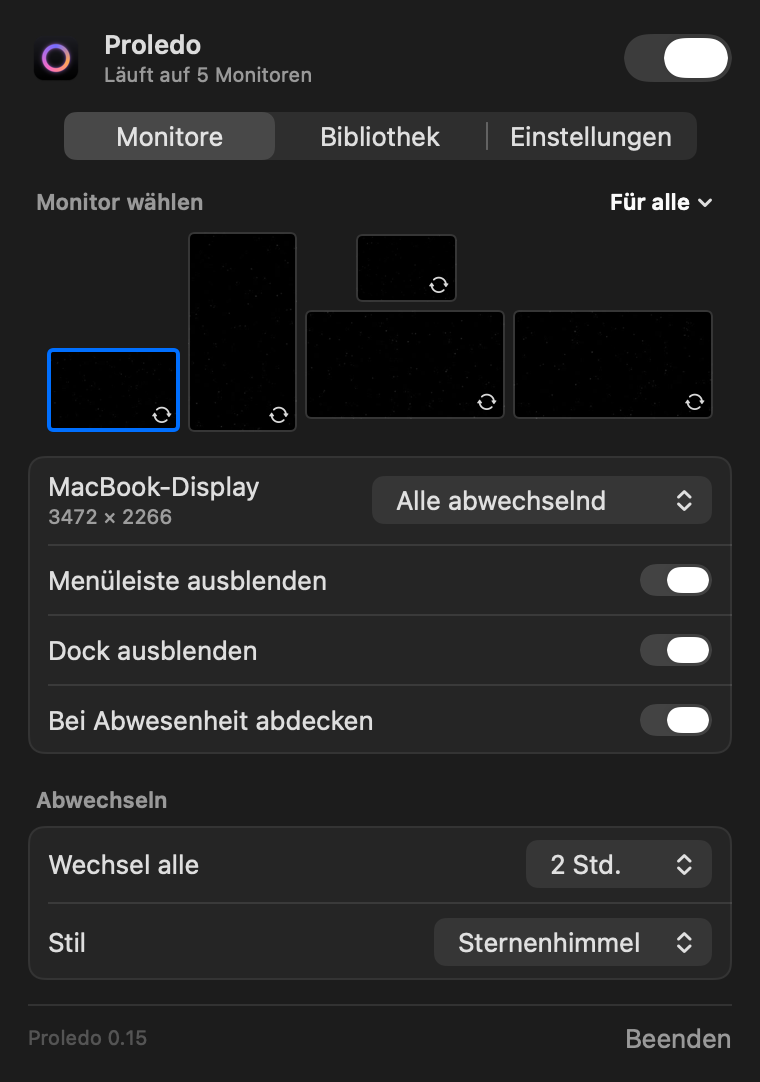
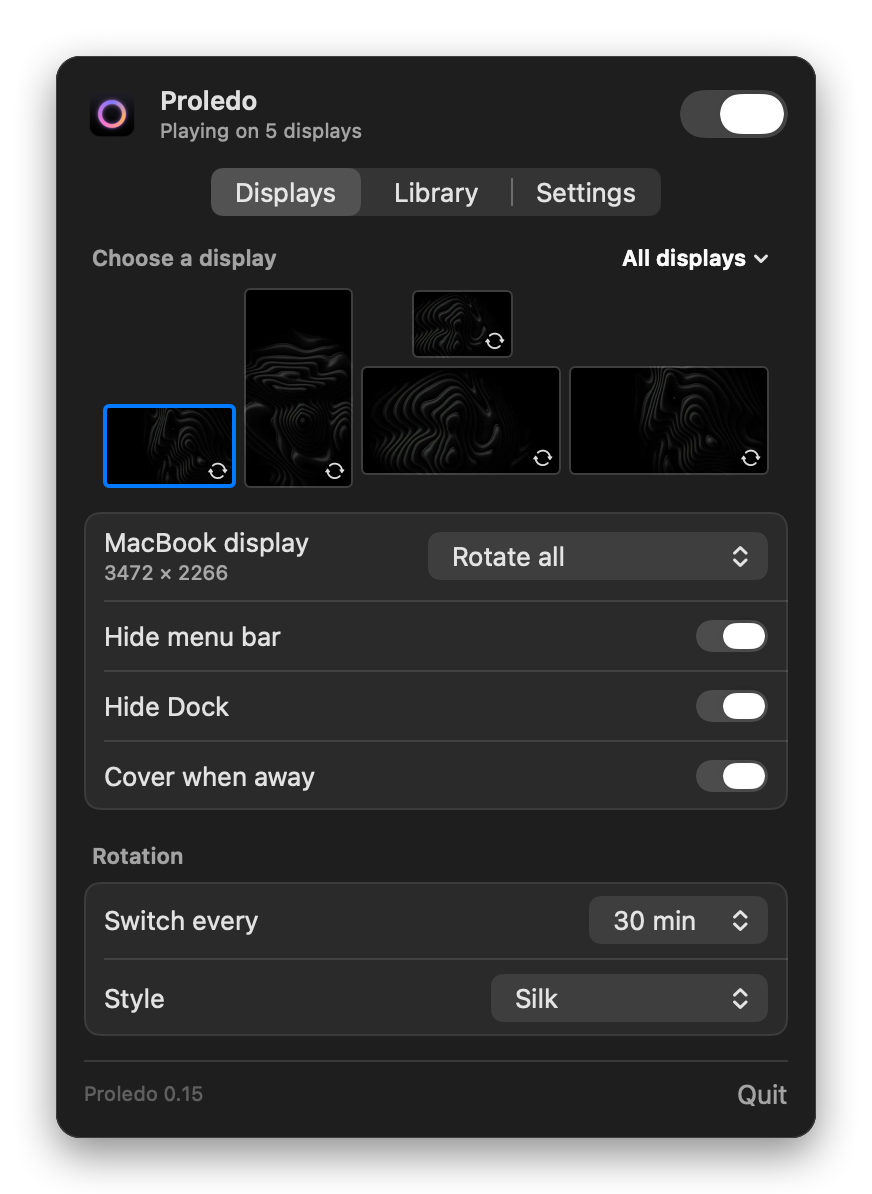
Update README and screenshots

diff --git a/README.md b/README.md
@@ -12,24 +12,26 @@
 <p align="center">
   <picture>
     <source media="(prefers-color-scheme: dark)" srcset="docs/menu-dark-0.15.png">
-    <img src="docs/menu-light-0.15.png" width="400" alt="The Proledo menu with a map of five displays and their settings">
+    <img src="docs/menu-light-0.15.png" width="400" alt="The Proledo menu with a map of five displays, their settings and rotation">
   </picture>
-  <img src="docs/generator-0.8.png" width="400" alt="Creating a contour line wallpaper in Proledo">
+  <img src="docs/generator-0.15.png" width="400" alt="Creating a northern lights wallpaper in Proledo">
 </p>
 
 Made for the MacBook Pro with PROLED XDR display, works on any Mac and any external monitor. Proledo lives in your menu bar. Paste a YouTube link, the video gets saved locally and plays as your desktop background. Every monitor can have its own video, or none at all.
+
+The menu has three tabs: **Displays** for what plays where, **Library** for adding and managing videos, and **Settings** for everything else.
 
 ## What it does
 
 - Downloads YouTube videos without sound, in the quality you pick
 - Grabs just a slice of long videos, like 10 minutes out of a 12-hour one
-- Lets you choose a video per monitor, portrait screens included, or rotate through all of them
+- Lets you choose a video per monitor, portrait screens included, or rotate through them on a timer, all of one style if you like
 - Hides the menu bar and Dock per monitor, they come back when your mouse hits the edge
 - Pauses on its own when the desktop is covered, the Mac is locked or running on battery
 - Has a power saving mode that plays a lighter 30 fps copy of each video
 - Never keeps your screen awake
 - Covers the whole screen, windows and all, when you step away, and clears it the moment you're back
-- Works with your own video files too
+- Works with your own video files too and keeps your library sorted by style
 - Creates its own wallpapers as seamless loops sized for each display: contour lines, starry sky, northern lights, fireflies or silk, for one display or all of them at once
 - Available in English, German, French and Spanish
 
